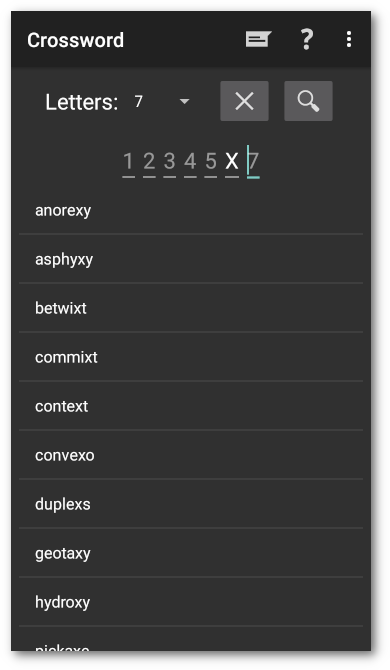
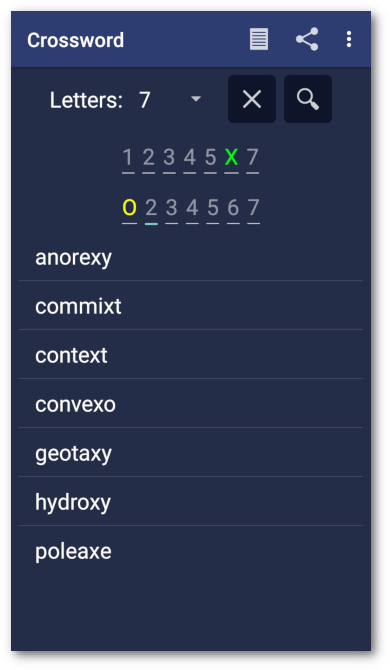
Add post

diff --git a/blog/content/post/create-word-grid.md b/blog/content/post/create-word-grid.md
@@ -1,0 +1,252 @@
+---
+title: Create a Word Grid
+author: Bill Farmer
+type: post
+date: 2022-06-11T10:55:18+01:00
+url: /create-word-grid/
+categories:
+    - Hacking
+keywords:
+    - java
+    - android
+    - word
+    - grid
+---
+
+A [popular online puzzle game][1] involves solving a five character
+word grid in the least number of moves. There are probably several
+ways of algorithmically generating word grids, [Donald Knuth's Dancing
+Links][2] paper mentions generating a word grid. I decided to use
+brute force and a randomised word list.
+
+This uses a large number of lists and iterators and can generate a
+large number of word grids. This algorithm is used in my [Gridle][3]
+[android app][4].
+
+|   | 1 | 2 | 3 | 4 | 5 |
+| :-: | :-: | :-: | :-: | :-: | :-: |
+| 1 | b | r | a | w | l |
+| 2 | e |   | l |   | a |
+| 3 | g | h | o | s | t |
+| 4 | u |   | f |   | c |
+| 5 | n | o | t | c | h |
+
+First the list of five character words.
+```java
+
+    public static final String WORDS[] =
+    {
+        "aback","abase","abate","abbey","abbot","abhor","abide",
+        "abled","abode","abort","about","above","abuse","abyss",
+        // ...
+        "wrote","wrung","wryly","yacht","yearn","yeast","yield",
+        "young","youth","zebra","zesty","zonal"
+    };
+```
+
+The lists for the randomised word list and the alphabetised word
+lists and iterators.
+```java
+    private static char grid[][];
+
+    private static List<String> wordList;
+
+    private static List<String> aList;
+    private static List<String> bList;
+    // ...
+    private static List<String> yList;
+    private static List<String> zList;
+
+    private static Iterator<String> aIterator;
+    private static Iterator<String> bIterator;
+    // ...
+    private static Iterator<String> yIterator;
+    private static Iterator<String> zIterator;
+
+    private static Set<String> usedSet;
+
+    private static Random random;
+```
+
+Initialise the random number generator, word list and randomise it.
+```java
+        random = new Random(new Date().getTime());
+
+        wordList = new ArrayList<String>(Arrays.asList(WORDS));
+
+        randomise(wordList);
+```
+
+Randomise function.
+```java
+    private static void randomise(List<String> list)
+    {
+        int index = 0;
+        for (String w: list)
+        {
+            int r = random.nextInt(list.size());
+            list.set(index++, list.get(r));
+            list.set(r, w);
+        }
+    }
+```
+
+Create and initialise alphabetical word lists.
+```java
+        aList = new ArrayList<String>();
+        bList = new ArrayList<String>();
+        // ...
+        yList = new ArrayList<String>();
+        zList = new ArrayList<String>();
+
+        for (String word: wordList)
+        {
+            switch (word.charAt(0))
+            {
+            case 'a': aList.add(word); break;
+            case 'b': bList.add(word); break;
+            // ...
+            case 'y': yList.add(word); break;
+            case 'z': zList.add(word); break;
+            }
+        }
+```
+
+Create char array, iterate through word list and initialise iterators
+and set of used words.
+```java
+        grid = new char[5][5];
+
+        for (String word: wordList)
+        {
+            aIterator = aList.iterator();
+            bIterator = bList.iterator();
+            // ...
+            yIterator = yList.iterator();
+            zIterator = zList.iterator();
+
+            usedSet = new HashSet<String>();
+            usedSet.add(word);
+```
+
+This is the algorithm, make the current word 1 down, get a word
+beginning with the first character of the current word and make it 1
+across. Get a word beginning with the third character and make it 3
+across and get a word beginning with the last character and make it 5
+across. At each stage start again with the next word if we run out of
+words.
+```java
+            String s = getWord(word.charAt(0));
+            if (s == null)
+                continue;
+            grid[0] = s.toCharArray();
+            grid[1] = new char[5];
+            Arrays.fill(grid[1], ' ');
+            s = getWord(word.charAt(2));
+            if (s == null)
+                continue;
+            grid[2] = s.toCharArray();
+            grid[3] = new char[5];
+            Arrays.fill(grid[3], ' ');
+            s = getWord(word.charAt(4));
+            if (s == null)
+                continue;
+            grid[4] = s.toCharArray();
+
+            grid[1][0] = word.charAt(1);
+            grid[3][0] = word.charAt(3);
+```
+
+The `getWord(char)` function, it won't return a word that has already
+been used, and fails if the iterator runs out of words.
+```java
+    private static String getWord(char c)
+    {
+        Iterator<String> iterator = getIterator(c);
+        while (iterator.hasNext())
+        {
+            String word = iterator.next();
+            if (usedSet.contains(word))
+                continue;
+
+            usedSet.add(word);
+            return word;
+        }
+
+        return null;
+    }
+```
+
+Now, find two words for 3 down and 5 down, they have to match three
+characters, the first, third and last. Start again with the next word
+if we run out of words.
+```java
+
+            word = getWord(grid[0][2], grid[2][2], grid[4][2]);
+            if (word == null)
+                continue;
+
+            grid[1][2] = word.charAt(1);
+            grid[3][2] = word.charAt(3);
+
+            word = getWord(grid[0][4], grid[2][4], grid[4][4]);
+            if (word == null)
+                continue;
+
+            grid[1][4] = word.charAt(1);
+            grid[3][4] = word.charAt(3);
+```
+
+The `getWord(char, char, char)` and `getIterator(char)` functions.
+```java
+    private static String getWord(char a, char b, char c)
+    {
+        Iterator<String> iterator = getIterator(a);
+        while (iterator.hasNext())
+        {
+            String word = iterator.next();
+            if (usedSet.contains(word))
+                continue;
+            if (word.charAt(2) == b &&
+                word.charAt(4) == c)
+            {
+                usedSet.add(word);
+                return word;
+            }
+        }
+
+        return null;
+    }
+
+    private static Iterator<String> getIterator(char c)
+    {
+        switch (c)
+        {
+        case 'a': return aIterator;
+        case 'b': return bIterator;
+        // ...
+        case 'y': return yIterator;
+        case 'z': return zIterator;
+        }
+
+        return null;
+    }
+```
+
+The algorithm may be extended to generate seven character grids of words.
+
+|  | 1 | 2 | 3 | 4 | 5 | 6 | 7 |
+| :-: | :-: | :-: | :-: | :-: | :-: | :-: | :-: |
+| 1 | l | u | s | t | i | e | r |
+| 2 | e |   | a |   | c |   | e |
+| 3 | v | a | l | l | e | y | s |
+| 4 | e |   | t |   | f |   | i |
+| 5 | r | e | p | o | r | t | s |
+| 6 | e |   | a |   | e |   | t |
+| 7 | t | e | n | t | e | r | s |
+
+
+ [1]: https://wafflegame.net/
+ [2]: https://en.wikipedia.org/wiki/Dancing_Links
+ [3]: https://github.com/billthefarmer/gridle
+ [4]: https://f-droid.org/packages/org.billthefarmer.gridle/

diff --git a/crossword/content/solve/_index.md b/crossword/content/solve/_index.md
@@ -12,10 +12,17 @@ word in the dictionary is antidisestablishmentarianism, which is 28
 letters.  Even if 28 slots won't fit on the screen, the app should
 still find this word.
 
-Fill in the letters you have in the slots. As each letter is entered
-the next slot will be selected and the app will search for words. You
-can also use the the keyboard **Next** button or the **Search** button
-to search. A stop character may be used as a wildcard.
+Fill in the letters you have in the correct position in the first row
+of slots, coloured green. Fill in letters that are in the word in any
+position in the second row of slots, coloured yellow. As each letter
+is entered the next slot will be selected and the app will search for
+words. You can also use the the keyboard **Next** button or the
+**Search** button to search. A stop character may be used as a
+wildcard.
+
+The search will find words that have the letters in the first row in
+the position entered, and the letters in the second row in any
+position.
 
 A list of matching words will appear below. If you select a word in the
 list, the slots will be filled in with that word, and a web search

diff --git a/gurgle/content/meaning/_index.md b/gurgle/content/meaning/_index.md
@@ -5,4 +5,5 @@ anchor: meaning
 weight: 500
 ---
 
-Tap the word once it has been guessed to display the meaning.
+Tap any word once the puzzle has been solved to display the meaning of
+that word.
